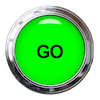
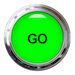
layout issues fixed

diff --git a/Dough-Not-Get-Eaten/css/style.css b/Dough-Not-Get-Eaten/css/style.css
@@ -10,11 +10,13 @@ html,body{
     width:960px;
 }
 h1{
+    position: absolute;
     font-size: 60px;
     font-family:monospace,'Times New Roman', Times, serif;
-    text-align: center;
+    left:410px;
     color:white;
 }
+
 #play1-btn{
     height:175px;
     width: 175px;
@@ -87,9 +89,6 @@ body{
 }
 
 #jump-btn{
-position:absolute;
-top:510px;
-left: 490px; 
 color:white;
 text-shadow:1px 1px black;
 width: 50px;
@@ -97,14 +96,7 @@ height:50px;
 font-size: 15px;
 font-weight: 900;
 }
-#go-btn-player-1{
-    position:absolute;
-    height: 100px;
-    width: 100px;
-    border-radius:50%;
-    top: 490px;
-    left: 330px;
-}
+
 
 
 /* ____________________________________________________________*/
@@ -129,9 +121,16 @@ font-weight: 900;
 
 #turnTrackerDiv{
     position: absolute;
-    height: 50px;
+    height: 69px;
     width: 200px;
     top: 0px;
+    left: 0px;
+    margin-top: 40.200px;
+    margin-bottom: 40.200px;
+    margin-block-start:0.67em;
+    margin-block-end:0.67em ;
+    border:0%;
+    padding: 0%;   
 }
 
 #turnTracker,#turnChange{
@@ -144,7 +143,7 @@ font-weight: 900;
     display: flex;
     justify-content: center;
     width: 200px;
-    font-size: large;
+    font-size:x-large;
 }
 
 #mouth2{
@@ -170,19 +169,14 @@ text-align: center;
 
 }
 
-#go-btn-player-1a,#go-btn-player-2{
-    /* background-color: green; */
+#go-btn-player-1,#go-btn-player-1a,#go-btn-player-2{
     position:absolute;
-    height: 100px;
-    width: 100px;
+    height: 75px;
+    width: 75px;
     border-radius:50%;
-    top: 370px; 
-     left: 320px; 
+   
 }
 #jump-btn2{
- position:absolute;
-top:400px;
-left: 490px; 
 color:white;
 text-shadow:1px 1px black;
 width: 50px;
@@ -191,3 +185,13 @@ font-size: 15px;
 font-weight: 900;
 }
 
+#btnBox{
+position: absolute;
+top: 400px;
+left:360px;
+width: 180px;
+height: 80px;
+/* background-color: white; */
+display:flex;
+justify-content: space-between;
+}

diff --git a/Dough-Not-Get-Eaten/index.html b/Dough-Not-Get-Eaten/index.html
@@ -9,7 +9,7 @@
 </head>
 <body id="body">
    <div id="wrapper">
- <div id ="empty-go"></div>  
+ 
 
 <h1 id ="title">DOUGH-NOT GET EATEN</h1>
     <div id="box-parent">
@@ -18,8 +18,10 @@
         <button type="button" id="play2-btn"> 2 PLAYER</button>
     </div>
 </Div>
+<div id="btnBox">
 <div id ="empty-go"></div> 
 <div id="empty-jump"></div>
+</div>
     <script type="text/javascript" src="js/app.js"></script>
 </div> 
 </body>

diff --git a/Dough-Not-Get-Eaten/js/app.js b/Dough-Not-Get-Eaten/js/app.js
@@ -42,7 +42,6 @@ Play1Btn (){
     grabEmptyJump.appendChild(grabJumpBtn)
     //create GO btn
     grabGoBtnPlayer1=document.createElement('button');
-    // grabGoBtnPlayer1.innerText="GO";
     grabGoBtnPlayer1.style.backgroundImage= "url(../images/goBtnImage.png)"
     grabGoBtnPlayer1.setAttribute("id", "go-btn-player-1")
     grabGoBtnPlayer1.addEventListener("click", ()=>this.goPlayer1())
